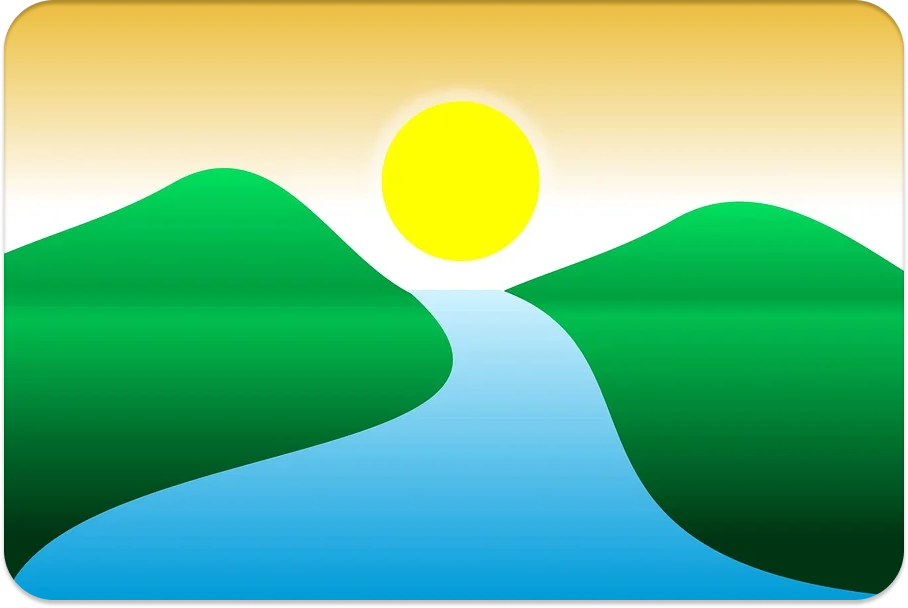
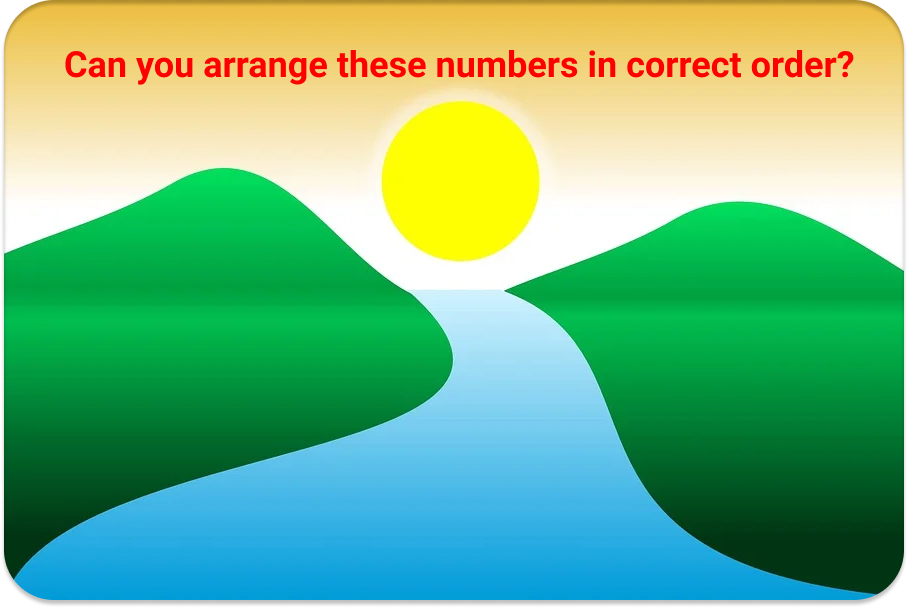
Thêm vào text câu hỏi và âm thanh đọc câu hỏi khi vào game

Changed region(s): [[0.0617, 0.0625, 0.9559, 0.1562]]

diff --git a/my-game/Scene1.js b/my-game/Scene1.js
@@ -2,7 +2,7 @@ let arrNumber = []
 let numberPlay = 5
 let zone = []
 let data = []
-let correctSound, incorrectSound, clappingSound, backGroundSound
+let correctSound, incorrectSound, clappingSound, backGroundSound, question
 let onlyOneObject = 0, restart = 0
 
 class Scene1 extends Phaser.Scene{
@@ -27,6 +27,7 @@ class Scene1 extends Phaser.Scene{
 
         this.load.image('bridge', 'Assets/bridge.png')
         this.load.image('bridge1', 'Assets/bridge1.png')
+        this.load.image('cloudMove', 'Assets/cloudMove.png')
 
         this.load.image('0', 'Assets/0.png')
         this.load.image('1', 'Assets/1.png')
@@ -64,6 +65,7 @@ class Scene1 extends Phaser.Scene{
         this.load.audio('incorrect','assets/Audio/incorrect.mp3')
         this.load.audio('correct','assets/Audio/correct.mp3')
         this.load.audio('clapping','assets/Audio/clapping.mp3')
+        this.load.audio('question','assets/Audio/question.mp3')
     }
 
     //create game;
@@ -75,6 +77,7 @@ class Scene1 extends Phaser.Scene{
         incorrectSound = this.sound.add('incorrect')
         clappingSound = this.sound.add('clapping')
         backGroundSound = this.sound.add('backGroundSound')
+        question = this.sound.add('question')
 
         this.scene1()
     }
@@ -123,6 +126,16 @@ class Scene1 extends Phaser.Scene{
             loop: true,
             delay: 0
         }
+        let musicConfigQuestion = {
+            mute: false,
+            volume: 3,
+            rate: 1,
+            detune: 0,
+            seek: 0,
+            loop: false,
+            delay: 1
+        }
+        question.play(musicConfigQuestion)
         backGroundSound.play(musicConfig)
         this.randomDataNumber()
     }
